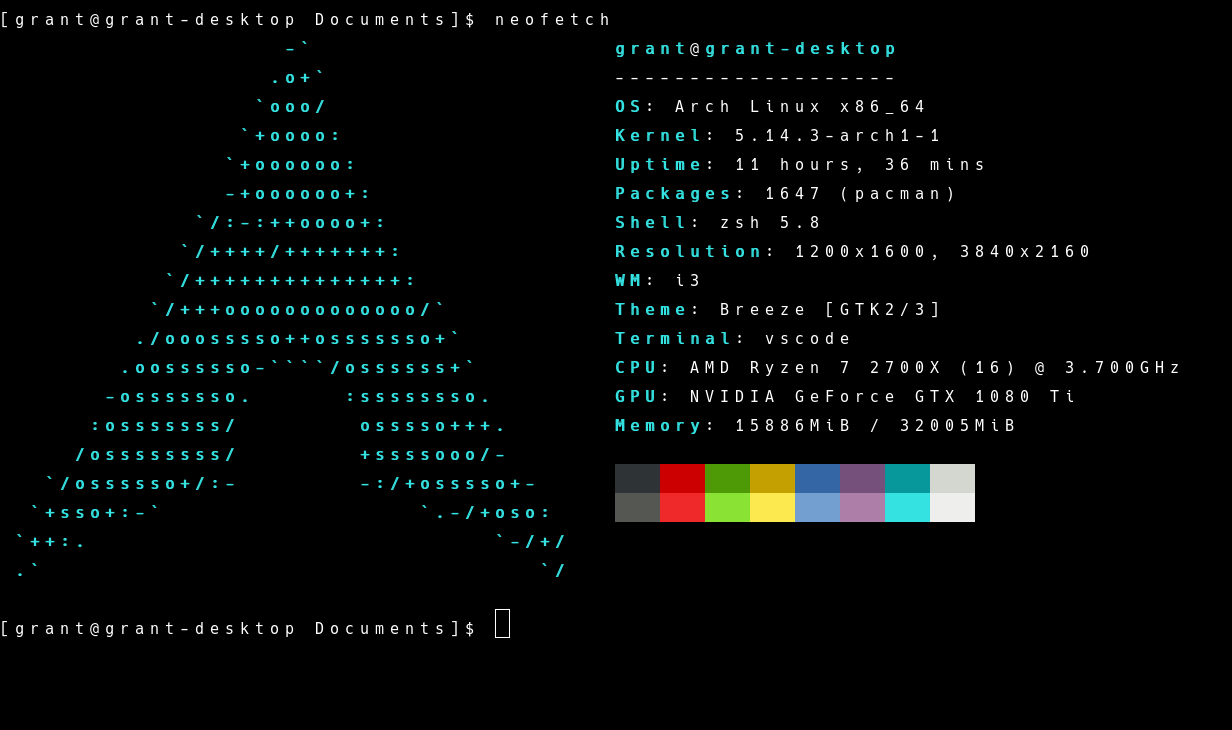
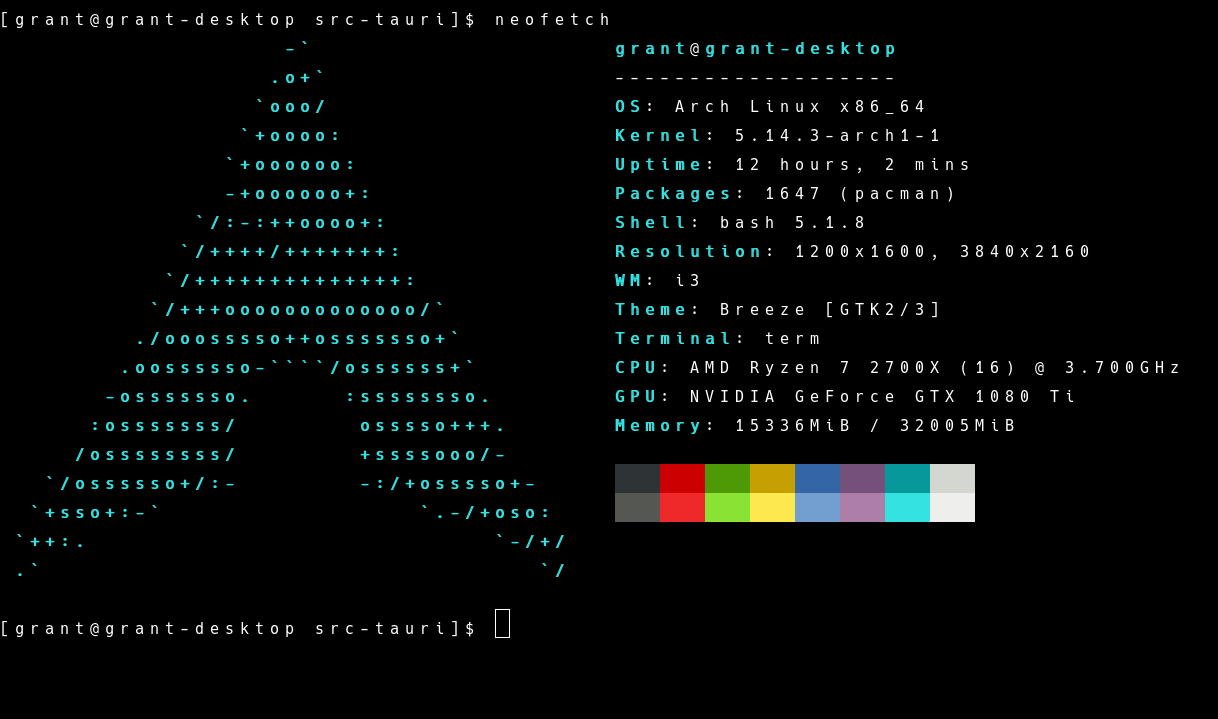
Implemented terminal resizing

diff --git a/src/App.tsx b/src/App.tsx
@@ -1,16 +1,16 @@
-import React, { useEffect, useRef } from 'react';
-import './App.css';
-import { Terminal } from 'xterm';
-import { FitAddon } from 'xterm-addon-fit';
-import { getCurrent } from '@tauri-apps/api/window'
-import { listen } from '@tauri-apps/api/event'
+import React, { useEffect, useRef } from "react";
+import "./App.css";
+import { Terminal } from "xterm";
+import { FitAddon } from "xterm-addon-fit";
+import { getCurrent } from "@tauri-apps/api/window";
+import { listen } from "@tauri-apps/api/event";
 
 const current = getCurrent();
 
 function App() {
   const terminalDiv = useRef<HTMLDivElement>(null);
   const term = new Terminal();
-  term.setOption('fontFamily', 'Hack');
+  term.setOption("fontFamily", "Hack");
   const fitAddon = new FitAddon();
   term.loadAddon(fitAddon);
 
@@ -19,27 +19,34 @@ function App() {
       term.open(terminalDiv.current);
       fitAddon.fit();
       term.onData((data) => {
-        current.emit('data', data);
+        current.emit("data", data);
       });
-      current.emit('ready', '');
+      current.emit("ready", "");
     }
   }, []);
 
-  window.addEventListener('resize', () => {
+  window.addEventListener("resize", () => {
     if (terminalDiv.current) {
       fitAddon.fit();
+      current.emit(
+        "resize",
+        JSON.stringify({
+          rows: term.rows,
+          cols: term.cols,
+        })
+      );
     }
   });
 
-  listen('write', event => {
-    console.log('write', event);
+  listen("write", (event) => {
+    console.log("write", event);
     term.write(event.payload as string);
   });
 
-  listen('close', event => {
+  listen("close", (event) => {
     term.dispose();
     current.close();
-  })
+  });
 
   return <div className="terminal" ref={terminalDiv}></div>;
 }

diff --git a/src-tauri/src/main.rs b/src-tauri/src/main.rs
@@ -3,11 +3,32 @@
   windows_subsystem = "windows"
 )]
 
-use std::{borrow::BorrowMut, env::vars, error::Error, ffi::CString, fs::File, io::{BufReader, Read, Write}, os::unix::prelude::FromRawFd, sync::{Arc, Mutex}};
+use std::{
+  borrow::BorrowMut,
+  env::vars,
+  error::Error,
+  ffi::CString,
+  fs::File,
+  io::{BufReader, Read, Write},
+  os::unix::prelude::FromRawFd,
+  sync::{Arc, Mutex},
+};
 
-use nix::{ioctl_none_bad, libc::{close, TIOCSCTTY}, pty::openpty, unistd::{ForkResult,  dup2, execvpe, fork, setsid}};
+use nix::{
+  ioctl_none_bad, ioctl_write_ptr_bad,
+  libc::{close, TIOCSCTTY, TIOCSWINSZ},
+  pty::{openpty, Winsize},
+  unistd::{dup2, execvpe, fork, setsid, ForkResult},
+};
+
+#[derive(serde::Deserialize)]
+struct ResizePayload {
+  rows: u16,
+  cols: u16,
+}
 
 ioctl_none_bad!(tiocsctty, TIOCSCTTY);
+ioctl_write_ptr_bad!(tiocswinsz, TIOCSWINSZ, Winsize);
 
 use tauri::{Manager, Window};
 
@@ -38,27 +59,49 @@ fn main() -> Result<(), Box<dyn Error>> {
   match fork_res {
     ForkResult::Parent { child: _ } => {
       unsafe { close(pty_res.slave) };
+      
 
       tauri::Builder::default()
-      .setup(move |app| {
-        let main_window = Arc::new(app.get_window("main").unwrap());
-        let master = Arc::new(Mutex::new(unsafe { File::from_raw_fd(pty_res.master) }));
+        .setup(move |app| {
+          let main_window = Arc::new(app.get_window("main").unwrap());
+          let master = Arc::new(Mutex::new(unsafe { File::from_raw_fd(pty_res.master) }));
 
-        app.listen_global("data", move |event| {
-          if let Some(data) = event.payload() {
-            let master_clone = Arc::clone(&master);
-            master_clone.lock().unwrap().borrow_mut().write(data.as_bytes()).unwrap();
-          }
-        });
+          app.listen_global("data", move |event| {
+            if let Some(data) = event.payload() {
+              let master_clone = Arc::clone(&master);
+              master_clone
+                .lock()
+                .unwrap()
+                .borrow_mut()
+                .write(data.as_bytes())
+                .unwrap();
+            }
+          });
 
-        app.listen_global("ready", move |_| {
-          send_output(Arc::clone(&main_window), pty_res.master);
-        });
-  
-        Ok(())
-      })
-      .run(tauri::generate_context!())
-      .expect("error while running tauri application");
+          app.listen_global("ready", move |_| {
+            send_output(Arc::clone(&main_window), pty_res.master);
+          });
+
+          app.listen_global("resize", move |event| {
+            if let Some(data) = event.payload() {
+              let resize_payload = serde_json::from_str::<ResizePayload>(&data).unwrap();
+              let winsize = Winsize {
+                ws_row: resize_payload.rows,
+                ws_col: resize_payload.cols,
+                ws_xpixel: 0,
+                ws_ypixel: 0,
+              };
+
+              unsafe {
+                tiocswinsz(pty_res.master, &winsize).unwrap();
+              }
+            }
+          });
+
+          Ok(())
+        })
+        .run(tauri::generate_context!())
+        .expect("error while running tauri application");
     }
     ForkResult::Child => {
       unsafe { close(pty_res.master) };
@@ -75,14 +118,20 @@ fn main() -> Result<(), Box<dyn Error>> {
 
       // let usr = User::from_uid(getuid()).unwrap_or(User::from_name("root").unwrap()).unwrap();
 
-      let sh = CString::new("/bin/sh")?;
+      let sh = CString::new("/bin/bash")?;
 
       let mut env_vars = vars()
-        .filter(|(key, _)| key != "TERM")
-        .map(|(k, v)| CString::new(format!("{}={}", k, v)).unwrap()).collect::<Vec<_>>();
+        .filter(|(key, _)| {
+          key != "TERM" && key != "TERM_PROGRAM" && key != "TERM_PROGRAM_VERSION" && key != "SHELL"
+        })
+        .map(|(k, v)| CString::new(format!("{}={}", k, v)).unwrap())
+        .collect::<Vec<_>>();
 
       env_vars.push(CString::new("TERM=xterm-256color")?);
-      
+      env_vars.push(CString::new("TERM_PROGRAM=term")?);
+      env_vars.push(CString::new("TERM_PROGRAM_VERSION=0.1")?);
+      env_vars.push(CString::new("SHELL=bash")?);
+
       execvpe::<CString, CString>(&sh, &[], &env_vars)?;
     }
   }
